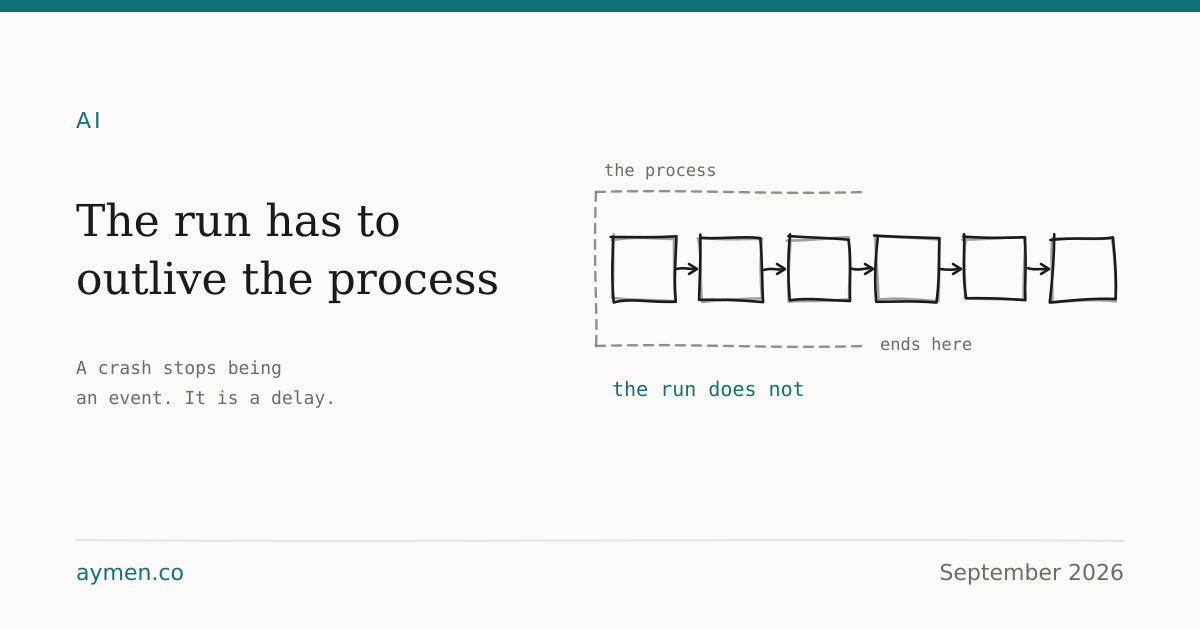
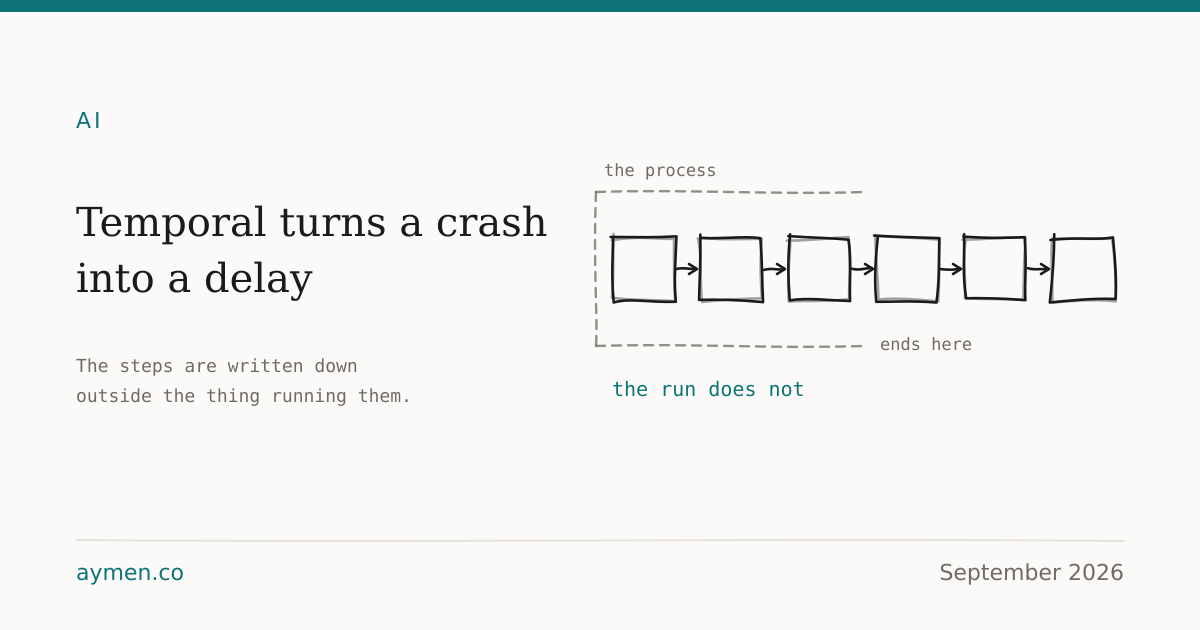
Put Temporal in the title and name it early

Changed region(s): [[0.0617, 0.3016, 0.4625, 0.3921], [0.0617, 0.4222, 0.4317, 0.4825], [0.0617, 0.573, 0.3392, 0.6635]]

diff --git a/site/posts/durable-runs.md b/site/posts/durable-runs.md
@@ -1,5 +1,5 @@
 ---
-title: "The Run Has to Outlive the Process"
+title: "Temporal Turns a Crash Into a Delay"
 seoTitle: "Temporal and agent workflows: durable execution, retries and recovery"
 date: 2026-09-11
 categories: ["ai"]
@@ -14,6 +14,8 @@ The fix I reached for was better notifications. That was the wrong layer.
 
 The run had no memory outside the process. Everything it had done lived in the heap of the thing that died, so there was nothing to ask, nothing to resume, and no way to know how far it got. A run like that is not a workflow. It is a session that has not crashed yet.
 
+The name for fixing that is durable execution. Temporal is the best-known implementation of it.
+
 ## What an agent run actually is
 
 Look at what you are asking for. Read the invoice, pull the matching order out of a system you do not control, check the totals against it, put the difference in front of a person, post the payment, file the record.
@@ -24,7 +26,7 @@ The properties you need are not new either. The work has to survive the machine 
 
 ## Durable execution
 
-Temporal's answer is to stop keeping the run in memory.
+The answer is to stop keeping the run in memory.
 
 Every step a workflow takes is appended to a history that lives outside the worker. The worker is disposable. Kill it and another one picks the run up by replaying that history, which puts it back exactly where the first one was, with the same local variables and the same place in the code.
 
